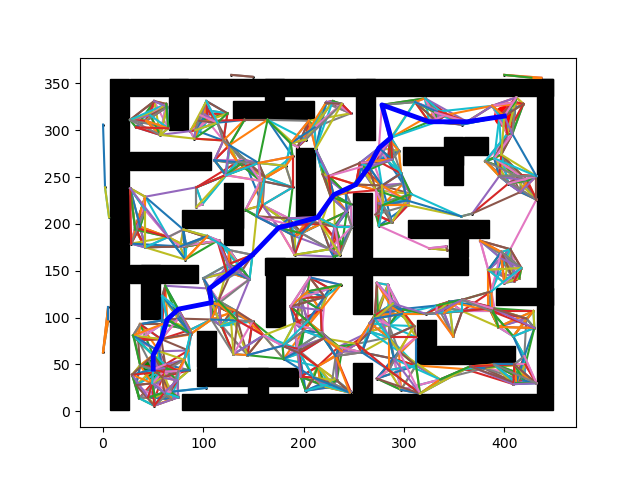
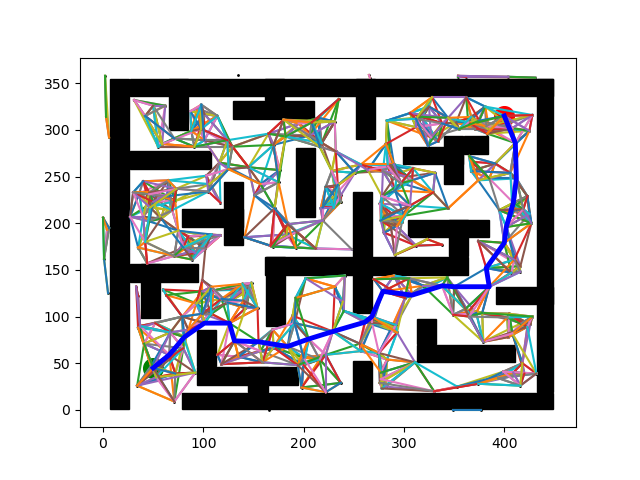
funcionou

diff --git a/src/simu/scripts/PRM/PRMController.py b/src/simu/scripts/PRM/PRMController.py
@@ -32,7 +32,7 @@ class PRMController:
         while(not self.solutionFound):
 
             seed = np.random.randint(1, 100000)
-            print("Trying with random seed {}".format(seed)) #escolhe uma seed aleatoria 
+            # print("Trying with random seed {}".format(seed)) #escolhe uma seed aleatoria 
             np.random.seed(seed)
 
             # Gera os n pontos no mapa
@@ -49,8 +49,8 @@ class PRMController:
             self.shortestPath()
 
             
-            self.coordsList = np.array([])
-            self.graph = Graph()
+        self.coordsList = np.array([])
+        self.graph = Graph()
 
         if(saveImage):
             plt.savefig("../../mapa/{}_samples.png".format(self.numOfCoords))
@@ -66,7 +66,7 @@ class PRMController:
 
         plt.xlim(0, self.large)
         plt.ylim(0, self.high)
-        #plt.show()
+        plt.show()
 
     def genCoords(self, maxSizeOfMap=100):
         xs = np.random.randint(self.large, size=(self.numOfCoords, 1))
@@ -138,7 +138,7 @@ class PRMController:
         x = [int(item[0]) for item in pointsToDisplay]
         y = [int(item[1]) for item in pointsToDisplay]
 
-        print("DADOS DA ROTA: \n\n", x, y)
+        # print("DADOS DA ROTA: \n\n", x, y)
 
         with open('../../mapa/route.txt', 'w') as route:
             for i in range (0, len(x)):
@@ -150,15 +150,15 @@ class PRMController:
 
         pointsToEnd = [str(self.findPointsFromNode(path))
                        for path in pathToEnd]
-        print("****Output****")
+        # print("****Output****")
 
-        print("The quickest path from {} to {} is: \n {} \n with a distance of {}".format(
-            self.collisionFreePoints[int(self.startNode)],
-            self.collisionFreePoints[int(self.endNode)],
-            " \n ".join(pointsToEnd),
-            str(dist[self.endNode])
-        )
-        )
+        # print("The quickest path from {} to {} is: \n {} \n with a distance of {}".format(
+        #     self.collisionFreePoints[int(self.startNode)],
+        #     self.collisionFreePoints[int(self.endNode)],
+        #     " \n ".join(pointsToEnd),
+        #     str(dist[self.endNode])
+        # )
+        # )
 
     def checkLineCollision(self, start_line, end_line):
         collision = False

diff --git a/src/simu/scripts/control.py b/src/simu/scripts/control.py
@@ -32,9 +32,9 @@ TRsy = 0
 
 # L1, L2 e L3 sao os pesos para cada componente da funcao de custo
 # Pesos em linha reta
-L1 = 800
-L2 = 500
-L3 = 0.05
+L1 = 800 #10
+L2 = 500 #2000
+L3 = 0.05 
 
 # Pesos na rotacao
 L1_rot = 800
@@ -87,9 +87,8 @@ def lerArquivo():
             num = int(line)
         else:
             xy = line.split()
-            x.append(9*float(xy[0])/MAP_X)
-            y.append(7.2*(float(xy[1]))/MAP_Y)
-            print(x[i-1], y[i-1])
+            x.append(8.646010*float(xy[0])/MAP_X)
+            y.append(6.78863*(float(xy[1]))/MAP_Y)
 
         i = i + 1
     return (num, x, y)
@@ -100,15 +99,16 @@ velPub = rospy.Publisher('/cmd_vel', Twist, queue_size=1)
 rospy.Subscriber('/odom', Odometry, OdometryValues, queue_size=1)
 velMsg = Twist()
 # rate = rospy.Rate(0.8)
-rate = rospy.Rate(1.2)
+rate = rospy.Rate(1.25)
 
-mapx = 9
-mapy = 7.2
+mapx = 8.646010
+mapy = 6.78863
 
 xref = []
 yref = [] 
 num, x, y = lerArquivo()
 
+# print(y)
 
 for i in range(len(x) - 1):
     inter = np.linspace(x[i], x[i+1], INTERVALOS)
@@ -117,6 +117,8 @@ for i in range(len(x) - 1):
     inter = np.linspace(y[i], y[i+1], INTERVALOS)
     for j in range(1, len(inter)):
         yref.append(inter[j])
+
+# print(yref)
 
 Vx = np.diff(xref)
 Vx = np.insert(Vx, 0, 0.0, axis=0)

diff --git a/build/simu/catkin_generated/installspace/control.py b/build/simu/catkin_generated/installspace/control.py
@@ -32,9 +32,9 @@ TRsy = 0
 
 # L1, L2 e L3 sao os pesos para cada componente da funcao de custo
 # Pesos em linha reta
-L1 = 800
-L2 = 500
-L3 = 0.05
+L1 = 800 #10
+L2 = 500 #2000
+L3 = 0.05 
 
 # Pesos na rotacao
 L1_rot = 800
@@ -87,9 +87,8 @@ def lerArquivo():
             num = int(line)
         else:
             xy = line.split()
-            x.append(9*float(xy[0])/MAP_X)
-            y.append(7.2*(float(xy[1]))/MAP_Y)
-            print(x[i-1], y[i-1])
+            x.append(8.646010*float(xy[0])/MAP_X)
+            y.append(6.78863*(float(xy[1]))/MAP_Y)
 
         i = i + 1
     return (num, x, y)
@@ -100,15 +99,16 @@ velPub = rospy.Publisher('/cmd_vel', Twist, queue_size=1)
 rospy.Subscriber('/odom', Odometry, OdometryValues, queue_size=1)
 velMsg = Twist()
 # rate = rospy.Rate(0.8)
-rate = rospy.Rate(1.2)
+rate = rospy.Rate(1.4)
 
-mapx = 9
-mapy = 7.2
+mapx = 8.646010
+mapy = 6.78863
 
 xref = []
 yref = [] 
 num, x, y = lerArquivo()
 
+# print(y)
 
 for i in range(len(x) - 1):
     inter = np.linspace(x[i], x[i+1], INTERVALOS)
@@ -117,6 +117,8 @@ for i in range(len(x) - 1):
     inter = np.linspace(y[i], y[i+1], INTERVALOS)
     for j in range(1, len(inter)):
         yref.append(inter[j])
+
+# print(yref)
 
 Vx = np.diff(xref)
 Vx = np.insert(Vx, 0, 0.0, axis=0)

diff --git a/src/simu/scripts/PRM/prm.py b/src/simu/scripts/PRM/prm.py
@@ -11,7 +11,7 @@ def main(args):
 
     parser = argparse.ArgumentParser(description='PRM Path Planning Algorithm')
     #definindo numero de pontos
-    parser.add_argument('--numSamples', type=int, default=500, metavar='N',
+    parser.add_argument('--numSamples', type=int, default=120, metavar='N',
                         help='Number of sampled points')
     args = parser.parse_args()
 
@@ -23,9 +23,9 @@ def main(args):
     current = list(map(int, l1[0].split(",")))
     destination = list(map(int, l1[1].split(",")))
 
-    print("Current: {} Destination: {}".format(current, destination))
+    #print("Current: {} Destination: {}".format(current, destination))
 
-    print("****Obstacles****")
+    # print("****Obstacles****")
     allObs = []
     for l in env:
         if(";" in l):
@@ -33,7 +33,7 @@ def main(args):
             topLeft = list(map(int, line[0].split(",")))
             bottomRight = list(map(int, line[1].split(",")))
             obs = Obstacle(topLeft, bottomRight)
-            obs.printFullCords()
+            #obs.printFullCords()
             allObs.append(obs)
 
     utils = Utils()

diff --git a/build/simu/catkin_generated/installspace/nmpc.py b/build/simu/catkin_generated/installspace/nmpc.py
@@ -16,7 +16,7 @@ def mysign(x):
 def Nmpc(Xrefp, Yrefp, TRsx, TRsy, TRst, TRsv, TRsw, Xref, Yref, PHIref, Vref, Wref,VXrefp, VYrefp, L1, L2, L3):
     # Inicializando parâmetros do controlador
     Vmax = 0.4
-    d_Rob = 0.2236
+    d_Rob = 0.2236 #0.354
     N1 = 1
     Np = 10  # Horizonte de predição
     Nu = 2  # Horizonte de controle
@@ -27,7 +27,7 @@ def Nmpc(Xrefp, Yrefp, TRsx, TRsy, TRst, TRsv, TRsw, Xref, Yref, PHIref, Vref, W
     # L3 = 0.1
 
     #RPROP
-    JStop = 0.05
+    JStop = 0.05 #0.1
     Imax = 15
     delta = 0.1
     eta_M = 0.5
@@ -35,6 +35,8 @@ def Nmpc(Xrefp, Yrefp, TRsx, TRsy, TRst, TRsv, TRsw, Xref, Yref, PHIref, Vref, W
     step_Max = 0.1
     step_Min = 0.000001
     curr_Step = 0.1
+
+    alpha = 0.015
 
     # Inicializando vetores do otimizador
     Jsteps = np.zeros((8, 1))

diff --git a/src/simu/scripts/nmpc/nmpc.py b/src/simu/scripts/nmpc/nmpc.py
@@ -16,7 +16,7 @@ def mysign(x):
 def Nmpc(Xrefp, Yrefp, TRsx, TRsy, TRst, TRsv, TRsw, Xref, Yref, PHIref, Vref, Wref,VXrefp, VYrefp, L1, L2, L3):
     # Inicializando parâmetros do controlador
     Vmax = 0.4
-    d_Rob = 0.2236
+    d_Rob = 0.2236 #0.354
     N1 = 1
     Np = 10  # Horizonte de predição
     Nu = 2  # Horizonte de controle
@@ -27,7 +27,7 @@ def Nmpc(Xrefp, Yrefp, TRsx, TRsy, TRst, TRsv, TRsw, Xref, Yref, PHIref, Vref, W
     # L3 = 0.1
 
     #RPROP
-    JStop = 0.05
+    JStop = 0.05 #0.1
     Imax = 15
     delta = 0.1
     eta_M = 0.5
@@ -35,6 +35,8 @@ def Nmpc(Xrefp, Yrefp, TRsx, TRsy, TRst, TRsv, TRsw, Xref, Yref, PHIref, Vref, W
     step_Max = 0.1
     step_Min = 0.000001
     curr_Step = 0.1
+
+    alpha = 0.015
 
     # Inicializando vetores do otimizador
     Jsteps = np.zeros((8, 1))
